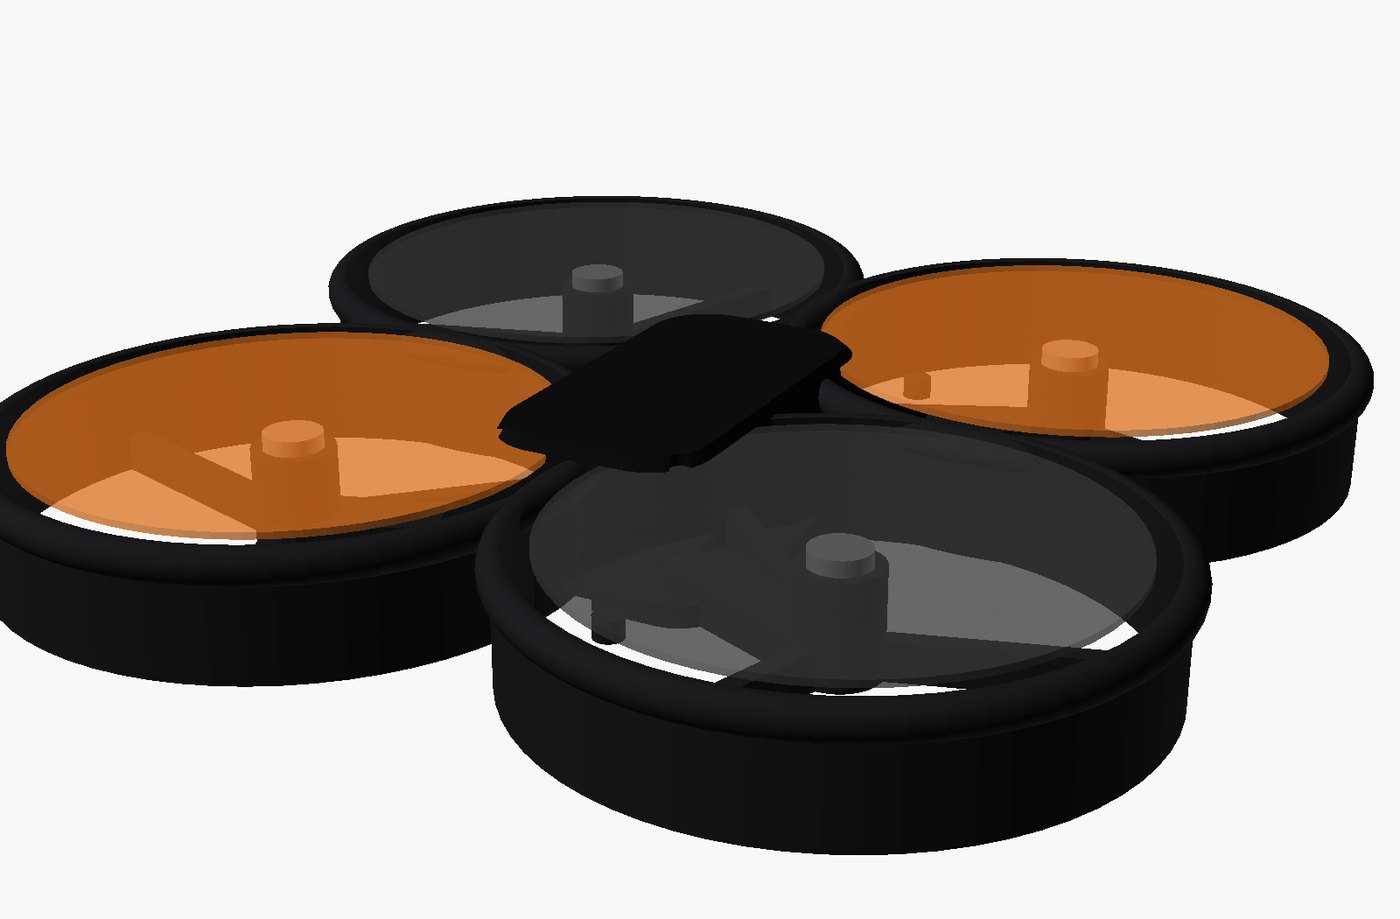
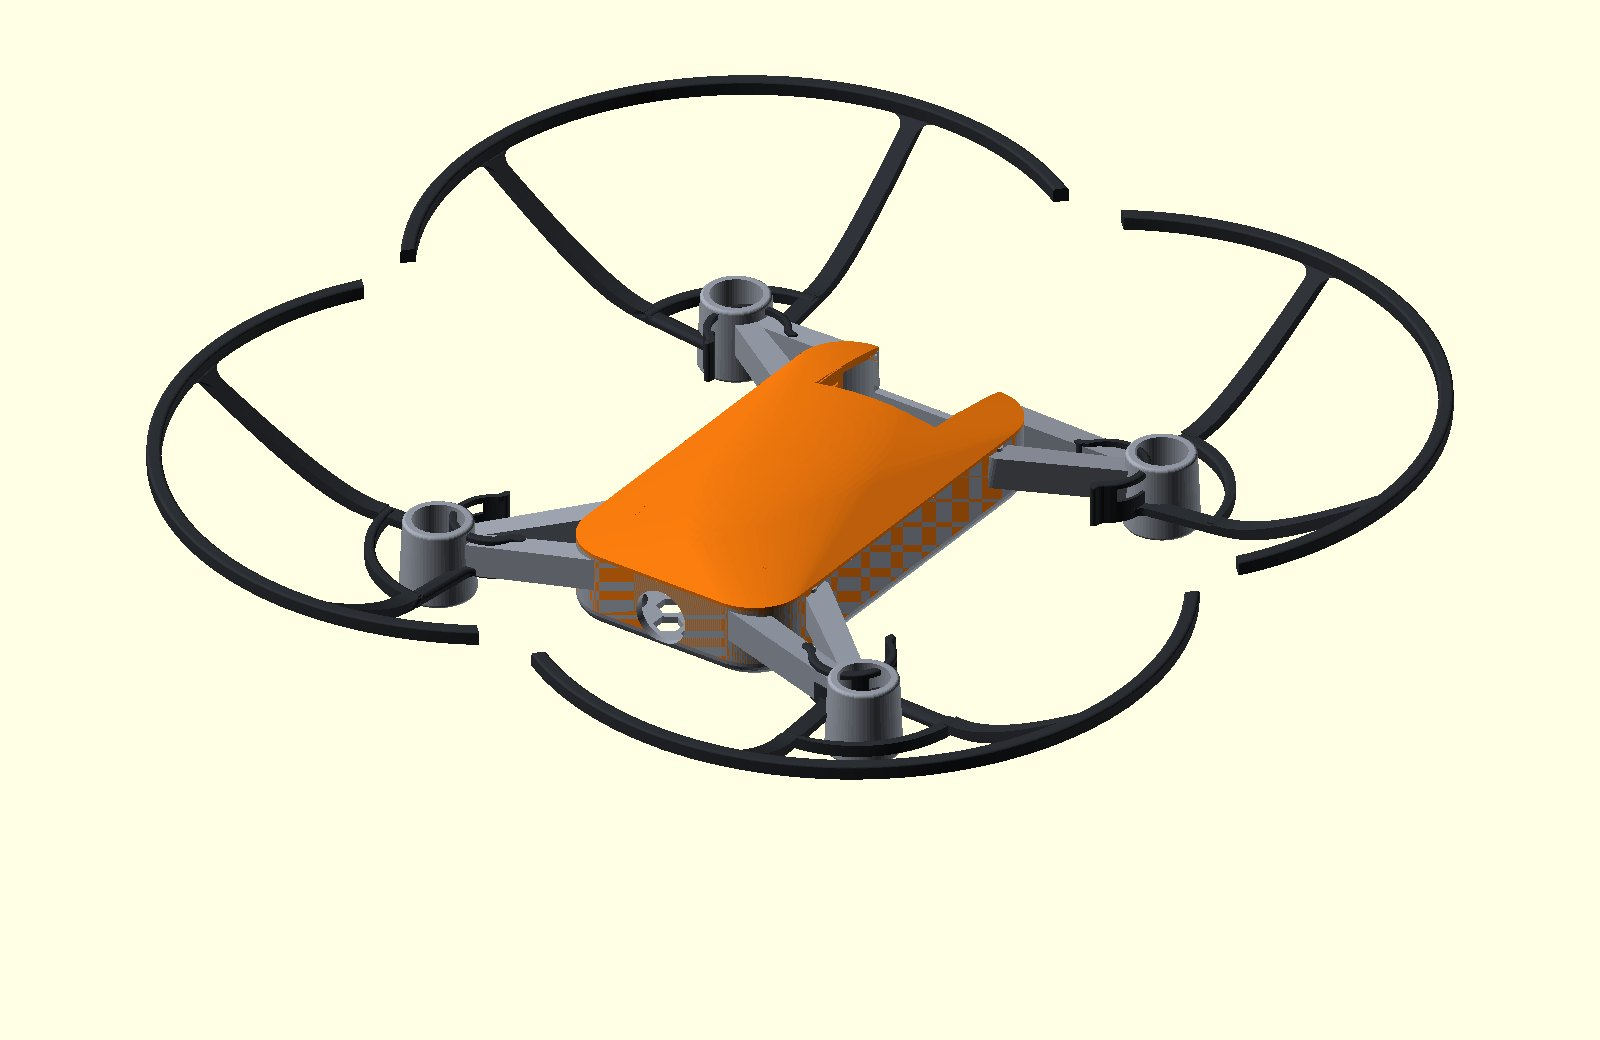
site: refresh the presentation site for the current Tello-look v2 drone
The site still showed the old cinewhoop "whoop" airframe (ducted guards,
36x70 board) — replace it end to end with the current design:

- New hero + gallery renders from the tello_style v2 frame, including a
  dedicated scene (assembly_site.scad) that places the real Tello prop
  guard STL at each motor with the same transform the 3-D viewer uses, so
  the site shows the actual current look (double-strut arms, rear battery,
  clip-on guards) instead of ducted whoop shrouds.
- Rewrote "Designed for..." and the old "three protection levels" sections
  to describe what the frame actually does now: double-strut arms (with
  the arm_lattice truss option), battery riding on top of the board, and
  guards sized straight from the real Tello geometry — no adapter part.
- Refreshed the PCB component map + a routed board render from the
  current 38x74 mm board (the committed images predated the 45x85->38x74
  compaction). Updated copy to the true routing state (substantially
  routed, not 100% — points at KNOWN_GAPS.md instead of claiming done).
  "Order the board" step now says finish routing first.
- Removed the now-orphaned whoop-variant images (none/ring/duct/canopy/
  frame/top.jpg under cad/); updated site/README.md's refresh pipeline to
  the tello_style paths and the new asset set.
- Verified: Playwright load with zero failed requests/console errors, and
  the exact asset-existence check pages.yml runs in CI, both passing
  locally before pushing.
[…]

diff --git a/site/index.html b/site/index.html
@@ -4,7 +4,7 @@
 <meta charset="utf-8">
 <meta name="viewport" content="width=device-width, initial-scale=1">
 <title>STRATOSDRONE — open-source Tello EDU class drone</title>
-<meta name="description" content="A fully open-source DJI Tello EDU class drone: orderable KiCad PCB, 3D-printable whoop airframe, ESP32-P4 firmware, Tello SDK 2.0 wire-compatible, swarming, and a full Gazebo simulation running the same flight code.">
+<meta name="description" content="A fully open-source DJI Tello EDU class drone: orderable KiCad PCB, 3D-printable Tello-look airframe with real clip-on prop guards, ESP32-P4 firmware, Tello SDK 2.0 wire-compatible, swarming, and a full Gazebo simulation running the same flight code.">
 <meta property="og:title" content="STRATOSDRONE">
 <meta property="og:description" content="Open-source Tello EDU class drone — PCB, firmware, CAD, simulation. 100% buildable.">
 <meta property="og:image" content="assets/cad/hero.jpg">
@@ -49,7 +49,7 @@
       </div>
     </div>
     <figure>
-      <img src="assets/cad/hero.jpg" alt="STRATOSDRONE cinewhoop airframe render" width="800" height="520">
+      <img src="assets/cad/hero.jpg" alt="STRATOSDRONE Tello-look airframe render with clip-on prop guards" width="800" height="520">
     </figure>
   </div>
 </section>
@@ -109,27 +109,30 @@
 <!-- ───────────────────────── design ───────────────────────── -->
 <section id="design">
   <div class="wrap">
-    <h2>Designed for the air</h2>
-    <p class="sub">A clean swept "whoop" body — minimal, aggressive, airflow-optimised.
-      The arms taper into the motor nacelles, the canopy crown is biased forward, and a
-      removable shell clips on and off without screws so you can customise it like a Tello.</p>
+    <h2>Designed to look and load like the original</h2>
+    <p class="sub">A close, printable read of the real Tello: double struts splay from
+      each body corner to the motor pods instead of a single arm, the canopy is a smooth
+      clip-on shell with a clean camera nose, and the 1S pack loads from the rear —
+      just like the drone it's modelled on.</p>
     <div class="grid g2">
       <div class="card">
-        <div class="ph"><img src="assets/cad/canopy.jpg" alt="Removable canopy with camera nose and snap posts"></div>
+        <div class="ph"><img src="assets/cad/arms.jpg" alt="Double-strut Tello-look arms, top view"></div>
         <div class="bd">
-          <h3>Removable canopy</h3>
-          <p>Smooth Tello-style shell with a chamfered camera nose, swept side air
-            intakes and LED light pipes. Snap posts mate with the deck — no screws, lift
-            it off to swap or print a new one.</p>
+          <h3>Double-strut arms</h3>
+          <p>Two solid struts per motor, splayed from the body to each pod — the same
+            twin-arm silhouette as the reference Tello, seen from every angle. A
+            <code>arm_lattice</code> switch opens them into a triangulated truss if you'd
+            rather print it lighter.</p>
         </div>
       </div>
       <div class="card">
-        <div class="ph"><img src="assets/cad/frame.jpg" alt="Whoop airframe with ducts, three-quarter view"></div>
+        <div class="ph"><img src="assets/cad/battery.jpg" alt="1S battery pack lifted out of the rear slot, exploded view"></div>
         <div class="bd">
-          <h3>Swept airframe</h3>
-          <p>Arms taper into the motor nacelles for clean airflow. The 1S pack slides in
-            from the rear like a Tello, and the compact 36×70 mainboard sits on M2 bosses
-            above the under-body flow + ToF sensor window.</p>
+          <h3>Rear-loading battery, on top of the board</h3>
+          <p>The pack slides in from the back over a honeycomb-vented floor and rides
+            <em>on top of</em> the mainboard — it can't slide under and block the
+            downward ToF / optical-flow sensors. No need to pull the canopy to swap a
+            battery.</p>
         </div>
       </div>
     </div>
@@ -139,33 +142,35 @@
 <!-- ───────────────────────── variants ───────────────────────── -->
 <section id="variants">
   <div class="wrap">
-    <h2>One frame, three protection levels</h2>
-    <p class="sub">The airframe is parametric. Flip a single <code>guard</code> setting in
-      <code>params.scad</code> and re-slice — the electronics, wheelbase and motor mounts
-      stay identical across all three.</p>
+    <h2>Real Tello prop guards clip straight on</h2>
+    <p class="sub">Each motor pod carries a clip collar sized to the actual DJI Tello
+      guard's C-clip — the same guards from a real Tello (or a spare set) snap on
+      directly, ring concentric with the prop, clip on the nacelle. No adapter part to
+      print or design.</p>
     <div class="grid g3">
       <div class="card">
-        <div class="ph"><img src="assets/cad/none.jpg" alt="Naked variant, no prop guards"></div>
+        <div class="ph"><img src="assets/cad/guards.jpg" alt="Top-down view, four prop guards clipped on, rings concentric with each prop"></div>
         <div class="bd">
-          <h3>Naked <code>none</code></h3>
-          <p>Bare swept arms, no guards. The lightest, most minimal build — for open
-            flying and maximum efficiency.</p>
+          <h3>Drop-in fit</h3>
+          <p>Sized straight from the real guard's geometry — no redesign, no
+            printed adapter. Clip them on, clip them off.</p>
         </div>
       </div>
       <div class="card">
-        <div class="ph"><img src="assets/cad/ring.jpg" alt="Open ring prop guards, Tello style"></div>
+        <div class="ph"><img src="assets/cad/iso.jpg" alt="Assembled airframe, three-quarter view, capot and struts"></div>
         <div class="bd">
-          <h3>Ring guards <code>ring</code></h3>
-          <p>Thin open prop-guard rings on struts, Tello-style. Light protection for
-            learning to fly and indoor knocks.</p>
+          <h3>One printed pair</h3>
+          <p>Just <code>body_bottom_v2.stl</code> + <code>body_top_v2.stl</code> —
+            two parts, no supports beyond the motor pods, ≈23 g in PLA.</p>
         </div>
       </div>
       <div class="card">
-        <div class="ph"><img src="assets/cad/duct.jpg" alt="Cinewhoop ducts, reinforced"></div>
+        <div class="ph"><img src="assets/cad/underside.jpg" alt="Underside view showing the honeycomb vent floor and sensor apertures"></div>
         <div class="bd">
-          <h3>Cinewhoop <code>duct</code></h3>
-          <p>Full ducts with rounded intake lips and skids. Reinforced for indoor and
-            contact flying, with a thrust bump from the shrouds.</p>
+          <h3>Sensors stay clear</h3>
+          <p>A honeycomb-vented floor with two dedicated apertures keeps the downward
+            ToF and optical-flow sensors looking straight through — nothing printed
+            in their field of view.</p>
         </div>
       </div>
     </div>
@@ -187,15 +192,15 @@
       </div>
       <div class="feat">
         <h3><span class="d">◆</span>Hardware — KiCad PCB</h3>
-        <p>A compact 36×70 mm mainboard generated from a single design database
-          (<code>design.py</code> → board, BOM, CPL, pinmap). ESP32-P4 + C6, MOSFET
-          motor drivers, full IMU/baro/ToF/flow sensor suite. Order it assembled from
-          JLCPCB.</p>
+        <p>A compact 38×74 mm, double-sided mainboard generated from a single design
+          database (<code>design.py</code> → board, BOM, CPL, pinmap). ESP32-P4 + C6,
+          MOSFET motor drivers, full IMU/baro/ToF/flow sensor suite.</p>
       </div>
       <div class="feat">
-        <h3><span class="d">◆</span>CAD — parametric airframe</h3>
-        <p>OpenSCAD whoop frame and canopy → STL. Three guard variants, rear battery bay,
-          press-fit 8520 pockets and a removable shell — all from shared parameters.</p>
+        <h3><span class="d">◆</span>CAD — Tello-look airframe</h3>
+        <p>OpenSCAD double-strut frame and clip-on capot → STL. Rear battery bay riding
+          on top of the board, press-fit 8520 pockets and clip collars for real Tello
+          prop guards — all from shared parameters.</p>
       </div>
       <div class="feat">
         <h3><span class="d">◆</span>Sim + SDK</h3>
@@ -212,10 +217,11 @@
             can place and inspect it with confidence before ordering.</p></div>
       </div>
       <div class="card">
-        <div class="ph"><img src="assets/pcb/top.jpg" alt="PCB top render"></div>
-        <div class="bd"><h3>Routable by design</h3>
-          <p>Passives are anchored around the ESP32-P4 with collision-aware placement —
-            decoupling caps ring the MCU, zero copper overlaps.</p></div>
+        <div class="ph"><img src="assets/pcb/top.jpg" alt="PCB top render, routed"></div>
+        <div class="bd"><h3>Routed, in progress</h3>
+          <p>Placement is clean and courtyard-checked; the bulk of the signal routing is
+            done (AI-assisted, then hand-finished) with four copper planes poured. See
+            <code>KNOWN_GAPS.md</code> for exactly what's left before you order.</p></div>
       </div>
     </div>
   </div>
@@ -227,22 +233,23 @@
     <h2>Gallery</h2>
     <p class="sub">Concept brief, CAD renders and the board. Click any image to enlarge.</p>
     <div class="gal" id="gal">
-      <a href="assets/cad/hero.jpg"><img src="assets/cad/hero.jpg" alt="Cinewhoop hero render" loading="lazy"></a>
-      <a href="assets/cad/duct.jpg"><img src="assets/cad/duct.jpg" alt="Duct variant" loading="lazy"></a>
+      <a href="assets/cad/hero.jpg"><img src="assets/cad/hero.jpg" alt="Tello-look hero render with prop guards" loading="lazy"></a>
+      <a href="assets/cad/guards.jpg"><img src="assets/cad/guards.jpg" alt="Top-down, four prop guards" loading="lazy"></a>
       <a href="assets/concept/1.jpg"><img src="assets/concept/1.jpg" alt="Concept — isometric view and dimensions" loading="lazy"></a>
-      <a href="assets/cad/ring.jpg"><img src="assets/cad/ring.jpg" alt="Ring variant" loading="lazy"></a>
+      <a href="assets/cad/battery.jpg"><img src="assets/cad/battery.jpg" alt="Rear battery, exploded view" loading="lazy"></a>
       <a href="assets/concept/2.jpg"><img src="assets/concept/2.jpg" alt="Concept — propulsion configuration" loading="lazy"></a>
-      <a href="assets/cad/none.jpg"><img src="assets/cad/none.jpg" alt="Naked variant" loading="lazy"></a>
+      <a href="assets/cad/arms.jpg"><img src="assets/cad/arms.jpg" alt="Double-strut arms, top view" loading="lazy"></a>
       <a href="assets/concept/3.jpg"><img src="assets/concept/3.jpg" alt="Concept render" loading="lazy"></a>
-      <a href="assets/cad/top.jpg"><img src="assets/cad/top.jpg" alt="Top view" loading="lazy"></a>
+      <a href="assets/cad/front.jpg"><img src="assets/cad/front.jpg" alt="Front view, camera lens" loading="lazy"></a>
       <a href="assets/concept/4.jpg"><img src="assets/concept/4.jpg" alt="Concept render" loading="lazy"></a>
       <a href="assets/pcb/component_map.jpg"><img src="assets/pcb/component_map.jpg" alt="Component map" loading="lazy"></a>
       <a href="assets/concept/5.jpg"><img src="assets/concept/5.jpg" alt="Concept render" loading="lazy"></a>
-      <a href="assets/cad/frame.jpg"><img src="assets/cad/frame.jpg" alt="Frame three-quarter" loading="lazy"></a>
-      <a href="assets/cad/canopy.jpg"><img src="assets/cad/canopy.jpg" alt="Removable canopy" loading="lazy"></a>
+      <a href="assets/cad/side.jpg"><img src="assets/cad/side.jpg" alt="Side view, low profile capot" loading="lazy"></a>
+      <a href="assets/cad/underside.jpg"><img src="assets/cad/underside.jpg" alt="Underside, honeycomb vent floor" loading="lazy"></a>
       <a href="assets/concept/6.jpg"><img src="assets/concept/6.jpg" alt="Concept render" loading="lazy"></a>
       <a href="assets/concept/7.jpg"><img src="assets/concept/7.jpg" alt="Concept render" loading="lazy"></a>
-      <a href="assets/pcb/top.jpg"><img src="assets/pcb/top.jpg" alt="PCB top" loading="lazy"></a>
+      <a href="assets/pcb/top.jpg"><img src="assets/pcb/top.jpg" alt="PCB top, routed" loading="lazy"></a>
+      <a href="assets/cad/section.jpg"><img src="assets/cad/section.jpg" alt="Battery-over-board cross-section" loading="lazy"></a>
       <a href="assets/concept/8.jpg"><img src="assets/concept/8.jpg" alt="Concept render" loading="lazy"></a>
       <a href="assets/concept/9.jpg"><img src="assets/concept/9.jpg" alt="Concept render" loading="lazy"></a>
       <a href="assets/concept/10.jpg"><img src="assets/concept/10.jpg" alt="Concept render" loading="lazy"></a>
@@ -259,14 +266,16 @@
       <li><b>Simulate it first.</b> Build the Gazebo plugin, spawn a drone, and run
         <code>python sdk/python/examples/01_hover.py</code> — takeoff, hover, land, over
         the Tello protocol. No hardware required.</li>
-      <li><b>Order the board.</b> Review the KiCad project, then send the JLCPCB
-        gerbers/BOM/CPL package off for assembly. Cross-check against the component map and
-        <code>KNOWN_GAPS.md</code> before you commit.</li>
-      <li><b>Print the airframe.</b> Pick a guard variant, slice
-        <code>frame_&lt;variant&gt;.stl</code> + <code>canopy.stl</code> in PETG or tough
-        PLA — no supports, each part prints flat.</li>
+      <li><b>Finish routing, then order.</b> Open the KiCad project, close out the
+        remaining ratsnest (<code>KNOWN_GAPS.md</code> lists exactly what's left), fill
+        zones, and send the JLCPCB gerbers/BOM/CPL package off for assembly. Cross-check
+        against the component map first.</li>
+      <li><b>Print the airframe.</b> Slice <code>body_bottom_v2.stl</code> +
+        <code>body_top_v2.stl</code> in PETG or tough PLA — light supports only under
+        the motor pods.</li>
       <li><b>Assemble.</b> Press in the 8520 motors, mount the board on the M2 bosses,
-        route the motor wires along the arms, slide in the 1S pack, clip on the canopy.</li>
+        route the motor wires along the arms, slide the 1S pack in from the rear, clip
+        on the capot, clip on the prop guards.</li>
       <li><b>Flash &amp; fly.</b> Build the ESP-IDF firmware for the ESP32-P4, flash, and
         connect — your simulated mission scripts now run on the real drone, unchanged.</li>
     </ol>

diff --git a/site/README.md b/site/README.md
@@ -1,8 +1,9 @@
 # STRATOSDRONE — presentation site
 
 A single-page, dependency-free presentation of the project: hero, specs vs the
-DJI Tello EDU, the swept "whoop" design, the three protection variants, how the
-project is built, and a gallery of the concept brief + CAD/PCB renders.
+DJI Tello EDU, the Tello-look double-strut design, the real clip-on prop
+guards, how the project is built, and a gallery of the concept brief + CAD/PCB
+renders.
 
 Plain HTML/CSS/JS — **no build step**, no frameworks, no tracking.
 
@@ -13,8 +14,8 @@ Plain HTML/CSS/JS — **no build step**, no frameworks, no tracking.
 | `index.html` | the page |
 | `style.css` | dark, minimal theme |
 | `assets/concept/*.jpg` | the original concept brief (resized from `/g`) |
-| `assets/cad/*.jpg` | OpenSCAD renders of the whoop airframe (the three variants, hero, top, frame) |
-| `assets/pcb/*.jpg` | the PCB component map and a board render |
+| `assets/cad/*.jpg` | OpenSCAD renders of the `tello_style` v2 airframe (hero, arms, battery, guards, iso/front/side/underside/section) |
+| `assets/pcb/*.jpg` | the PCB component map and a routed board render |
 
 ## View locally
 
@@ -33,34 +34,58 @@ asset exists). Enable Pages once in **Settings → Pages → Source: GitHub Acti
 
 ## Refreshing the images
 
-The CAD renders come from `hardware/frame/whoop/preview/*.png` and the PCB map
-from `hardware/pcb/preview/`. The studio previews use the `Tomorrow` colorscheme
-(light #f8f8f8 background) on `assembly.scad`:
+The frame-only renders (`arms.jpg`, `battery.jpg`, `iso.jpg`, `front.jpg`,
+`side.jpg`, `underside.jpg`, `section.jpg`) come straight from
+`hardware/frame/tello_style/preview/v2_*.png` — see that directory's own
+render commands. Studio previews use the `Cornfield` colorscheme (light
+background) for consistency with the dark page's white `.ph` card boxes.
+
+`hero.jpg` and `guards.jpg` need the real Tello prop guards attached, which
+aren't part of the printable frame (they're a separate STL placed only in the
+3-D viewer), so they're rendered from a dedicated scene,
+`hardware/frame/tello_style/assembly_site.scad` — imports the guard STL at
+each motor with the same transform `sim/viz/gen_viewer.py` uses, wrapped in
+explicit `color()` (OpenSCAD's `--render` mode drops per-object colours for
+this multi-part scene; use plain preview instead — no `--render` flag):
 
 ```bash
-cd hardware/frame/whoop
-CAM=0,0,4,62,0,22,0
-# airframe (no canopy) and canopy alone
-xvfb-run -a openscad -D guard='"duct"' -D show='"frame"'  --camera=$CAM --viewall \
-  --autocenter --projection=p --colorscheme=Tomorrow --imgsize=1200,820 -o preview/frame.png  assembly.scad
-xvfb-run -a openscad -D show='"canopy"' --camera=$CAM --viewall \
-  --autocenter --projection=p --colorscheme=Tomorrow --imgsize=1200,820 -o preview/canopy.png assembly.scad
+cd hardware/frame/tello_style
+# three-quarter hero — full drone with guards
+xvfb-run -a openscad -o /tmp/hero.png --imgsize=1600,1040 --colorscheme=Cornfield \
+  --camera=0,0,5,58,0,35,420 --projection=ortho assembly_site.scad
+# top-down — all four guards, symmetric
+xvfb-run -a openscad -o /tmp/top.png --imgsize=1400,1400 --colorscheme=Cornfield \
+  --camera=0,0,0,0,0,0,480 --projection=ortho assembly_site.scad
 ```
 
-After re-rendering, regenerate the resized JPEGs:
+The PCB renders are regenerated straight from the current board:
+
+```bash
+cd hardware/pcb
+python3 scripts/gen_component_map.py          # -> preview/component_map.png
+kicad-cli pcb export svg --layers "F.Cu,F.Silkscreen,Edge.Cuts,F.Mask" \
+  --page-size-mode 2 -o /tmp/pcb_top.svg stratosdrone.kicad_pcb
+python3 -c "import cairosvg; cairosvg.svg2png(url='/tmp/pcb_top.svg', \
+  write_to='/tmp/pcb_top.png', output_width=1000, background_color='white')"
+```
+
+After re-rendering, resize into `site/assets/`:
 
 ```bash
 python3 - <<'PY'
 from PIL import Image; import pathlib
 jobs = {
-  "hardware/frame/whoop/preview/hero.png":          "site/assets/cad/hero.jpg",
-  "hardware/frame/whoop/preview/assembly_duct.png": "site/assets/cad/duct.jpg",
-  "hardware/frame/whoop/preview/assembly_ring.png": "site/assets/cad/ring.jpg",
-  "hardware/frame/whoop/preview/assembly_none.png": "site/assets/cad/none.jpg",
-  "hardware/frame/whoop/preview/top.png":           "site/assets/cad/top.jpg",
-  "hardware/frame/whoop/preview/frame.png":         "site/assets/cad/frame.jpg",
-  "hardware/frame/whoop/preview/canopy.png":        "site/assets/cad/canopy.jpg",
-  "hardware/pcb/preview/component_map.png":         "site/assets/pcb/component_map.jpg",
+  "/tmp/hero.png":                                              "site/assets/cad/hero.jpg",
+  "/tmp/top.png":                                                "site/assets/cad/guards.jpg",
+  "hardware/frame/tello_style/preview/v2_top.png":              "site/assets/cad/arms.jpg",
+  "hardware/frame/tello_style/preview/v2_exploded.png":         "site/assets/cad/battery.jpg",
+  "hardware/frame/tello_style/preview/v2_iso.png":              "site/assets/cad/iso.jpg",
+  "hardware/frame/tello_style/preview/v2_front.png":            "site/assets/cad/front.jpg",
+  "hardware/frame/tello_style/preview/v2_side.png":             "site/assets/cad/side.jpg",
+  "hardware/frame/tello_style/preview/v2_underside.png":        "site/assets/cad/underside.jpg",
+  "hardware/frame/tello_style/preview/v2_battery_section.png":  "site/assets/cad/section.jpg",
+  "hardware/pcb/preview/component_map.png":                     "site/assets/pcb/component_map.jpg",
+  "/tmp/pcb_top.png":                                            "site/assets/pcb/top.jpg",
 }
 for src, dst in jobs.items():
     p = pathlib.Path(src)

diff --git a/hardware/frame/tello_style/README.md b/hardware/frame/tello_style/README.md
@@ -36,6 +36,7 @@ the board, held by a **cradle moulded into the canopy**. The floor is a
 | `battery_dummy.scad` | **print-fit gauge** — solid 1S pack at real size (22×53×9.5), adjust to your pack |
 | `pcb_dummy.scad` | **print-fit gauge** — board outline + holes + key components, to check fit/alignment |
 | `assembly.scad` | preview only (both shells + motors + prop disks) — do not print |
+| `assembly_site.scad` | preview only (both shells + the real Tello prop guard STL at each motor) — renders for `site/`, do not print |
 
 ## Tello-look variant (v2): lattice arms + rear-loading battery
 
